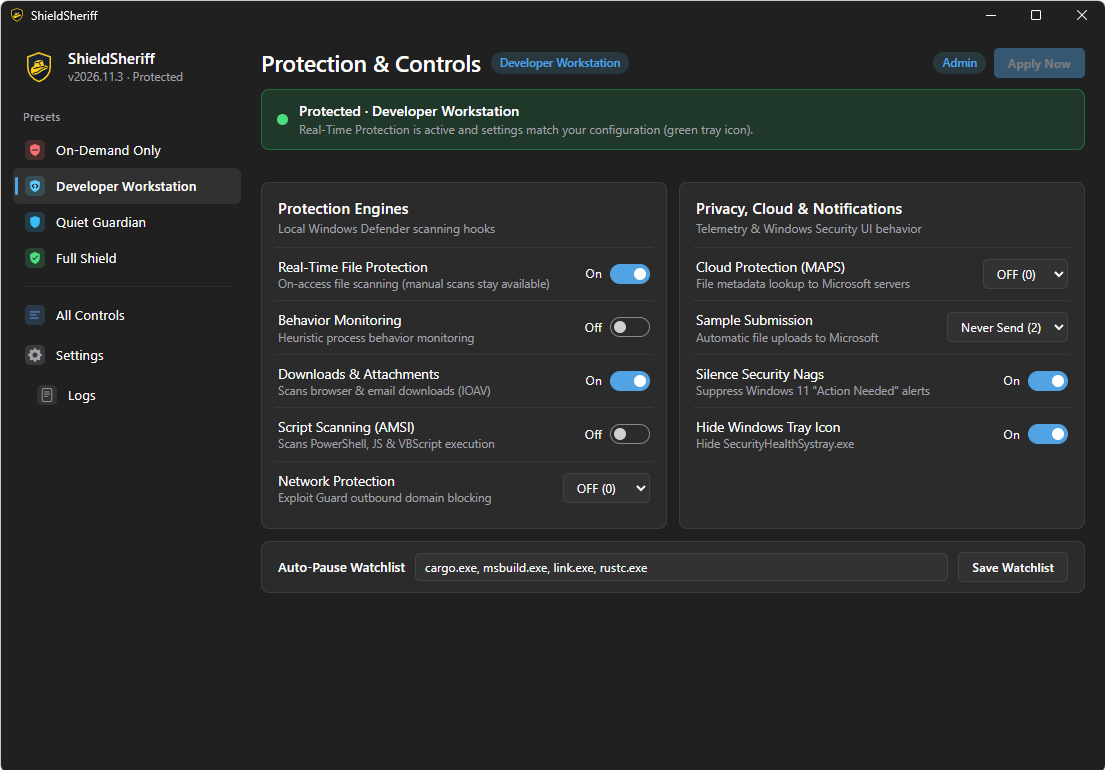
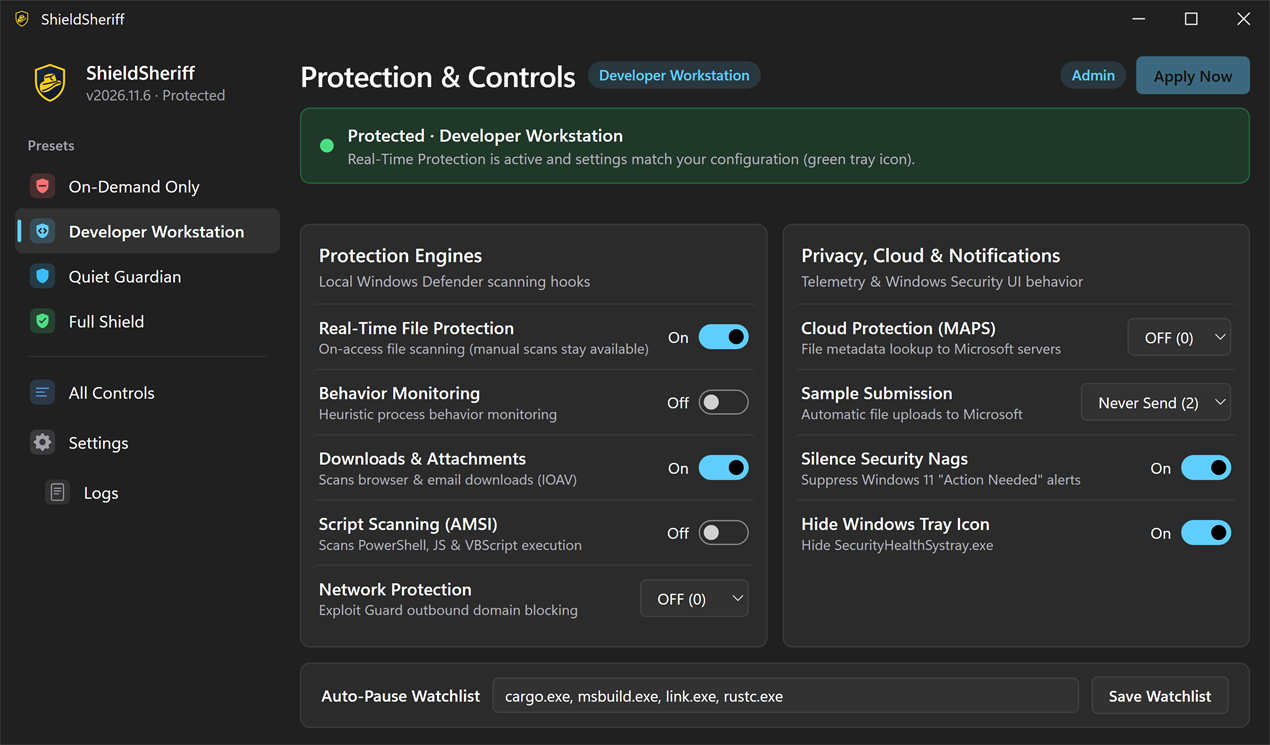
docs: focus README on end-users, add DEVELOPMENT.md, and refresh UI screenshot

diff --git a/site/index.html b/site/index.html
@@ -74,7 +74,7 @@
 
       <!-- Native App Screenshot -->
       <div class="hero-screenshot-wrap">
-        <img src="preview.png" width="1105" height="770" alt="ShieldSheriff Windows 11 UI showing Protection &amp; Controls" class="hero-screenshot">
+        <img src="preview.png" width="1016" height="596" alt="ShieldSheriff Windows 11 UI showing Protection &amp; Controls" class="hero-screenshot">
       </div>
     </div>
   </header>

diff --git a/site/styles.css b/site/styles.css
@@ -71,7 +71,7 @@ code, pre {
 }
 
 .hero-screenshot-wrap {
-  max-width: 960px;
+  max-width: 1016px;
   width: 100%;
   margin: 12px auto 0;
   border-radius: 10px;

diff --git a/README.md b/README.md
@@ -2,125 +2,143 @@
   <img src="site/logo.svg" alt="ShieldSheriff Logo" width="84" height="84" />
 </p>
 
-# ShieldSheriff
+<h1 align="center">ShieldSheriff</h1>
 
-**Granular, Nag-Free Control for Windows 11 Defender.**
+<p align="center">
+  <strong>Granular, Nag-Free Control for Windows 11 Defender.</strong><br />
+  <a href="https://kurtisnotcurtis.github.io/shieldsheriff/">Website &amp; Comparison</a> ·
+  <a href="https://github.com/kurtisnotcurtis/shieldsheriff/releases">Download Releases</a> ·
+  <a href="CHANGELOG.md">Changelog</a> ·
+  <a href="DEVELOPMENT.md">Developer Guide</a>
+</p>
 
-> **Platform & Privileges:** Windows 11 only. Running `shiesh.exe` without arguments inspects live Defender state in Read-Only mode and exits cleanly; pass `ui --elevate`, `tray --elevate`, or `elect --elevate` (or click **Admin** inside the Command Center UI) to prompt for Administrator (UAC) privileges to apply Defender policies. Ensure **Tamper Protection** is toggled `OFF` once in `windowsdefender://threatsettings` so Defender honors local policy locks.
-
-Windows 11's built-in Microsoft Defender (`MsMpEng.exe`) is a solid antivirus engine, but its notification layer (`SecurityHealthService.exe` / `SecurityHealthSystray.exe`) relentlessly nags when you intentionally turn off **Cloud-delivered protection**, **Automatic sample submission**, **Tamper protection**, or **Real-time protection**—and Windows Updates or Defender background tasks frequently flip your settings back on.
-
-Rather than registering as a fake third-party antivirus in Windows Security Center (which causes `MsMpEng.exe` to automatically disable its own real-time protection and requires an MVI ELAM kernel certificate), **ShieldSheriff** manages Defender directly using native Windows policies:
-- **Granular Protection Engines:** Keeps `WinDefend` alive while giving you direct control over `Real-Time Protection`, `Behavior Monitoring`, `Downloads & Attachments (IOAV)`, `Script Scanning (AMSI)`, `Network Protection`, `Cloud Protection (MAPS)`, and `Sample Submission`.
-- **Silence Security Nags:** Applies Windows Security Center notification & UX policies (`DisableNotifications`, `DisableEnhancedNotifications`, `Notification_Suppress`) and optionally hides the default `SecurityHealthSystray.exe` icon (with automatic registry backup & restore).
-- **Auto-Heal Settings Drift:** Periodically inspects live Registry & WMI (`MSFT_MpPreference`) state at your configured interval (default 15s) and restores your chosen settings if Defender or Windows Update resets them.
-- **Pause Protection & Auto-Pause Watchlist:** Temporarily pause Real-Time Protection for 15m / 30m / 1h / 4h, or automatically whenever specified build tools or games (`cargo.exe`, `msbuild.exe`, `link.exe`, `rustc.exe`, etc.) are running.
-
----
-
-## Project Structure
-
-```
-shieldsheriff/
-├── cmd/shieldsheriff/
-│   ├── main.go                     # CLI, System Tray, Command Center UI & Windows Service entry point
-│   └── instance.go                 # Single-instance named mutex & Command Center focus handoff
-├── internal/
-│   ├── defender/
-│   │   ├── state.go                # StandingOrders, DeputyStatus, StandDownState, and Presets
-│   │   ├── inspect.go              # Native Win32 Registry & filesystem inspector (works unprivileged & elevated)
-│   │   ├── enforce.go              # Policy locks + live Engine keys + DCOM WMI (MSFT_MpPreference) sync
-│   │   └── elevation.go            # Token elevation check + UAC self-elevation ("runas")
-│   ├── sheriff/
-│   │   ├── config.go               # Persistent config.json storage (%ProgramData%\ShieldSheriff)
-│   │   ├── governor.go             # Drift auto-healer, Pause timer & Win32 Toolhelp32 process watcher
-│   │   ├── startup.go              # Elevated logon Task Scheduler registration (`ShieldSheriff Tray`)
-│   │   ├── update.go               # GitHub Releases update checker
-│   │   └── service.go              # Native Windows Service (SCM) dispatcher & installer
-│   ├── tray/
-│   │   ├── icon.go                 # Procedural 32-bit ARGB preset, pause, passive & brand HICON renderer
-│   │   └── systray.go              # Native Win32 Shell_NotifyIconW System Tray & popup menu
-│   ├── ui/
-│   │   ├── server.go               # Localhost (127.0.0.1) UI server & WebView2 native window host
-│   │   ├── theme.go                # Windows 11 Dark/Light mode, DWM accent & system UI font reader
-│   │   ├── window.go               # Windows 11 Mica/caption chrome, icon & HWND deduplication
-│   │   └── dashboard.html          # Windows 11 Settings-style dual-pane UI with staged Apply Now
-│   └── version/
-│       └── version.go              # CalVer (YYYY.0M.MICRO) release & Defender platform compatibility metadata
-├── build.ps1                       # Reproducible local release build script (`.\build.ps1 -Test`)
-├── site/                           # Static marketing & comparison website (index.html, styles.css, app.js)
-├── CHANGELOG.md                    # CalVer release history & Windows Defender evolution log
-├── VERSION.json                    # Machine-readable CalVer metadata & tested Defender platform matrix
-├── go.mod
-└── LICENSE
-```
+<p align="center">
+  <img src="site/preview.png" alt="ShieldSheriff Command Center UI on Windows 11" />
+</p>
 
 ---
 
-## Quick Start
+## Why ShieldSheriff?
 
-### 1. Build
+Windows 11's built-in Microsoft Defender (`MsMpEng.exe`) is a capable local antivirus engine, but its notification layer (`SecurityHealthService.exe` / `SecurityHealthSystray.exe`) relentlessly nags whenever you intentionally turn off **Cloud-delivered protection**, **Automatic sample submission**, **Tamper protection**, or **Real-time protection**—and Windows Updates regularly flip your settings back on.
+
+**ShieldSheriff** is a lightweight (~5 MB), single-binary Windows 11 Defender governor that keeps Defender under your rules using native Windows policies rather than service-killing hacks or fake third-party antivirus registration:
+
+- **Granular Engine Control:** Keep `WinDefend` alive while independently controlling **Real-Time Protection**, **Behavior Monitoring**, **Downloads & Attachments (IOAV)**, **Script Scanning (AMSI)**, **Network Protection**, **Cloud Protection (MAPS)**, and **Sample Submission**.
+- **Silence Security Center Nags:** Suppresses Windows Security toast notifications and optionally hides the Windows Security system tray icon (with automatic registry backup and restore).
+- **Auto-Heal Update Resets:** Periodically checks your live Defender state (default every 15s, configurable) and restores your chosen settings if a Windows Update or background task resets them.
+- **Timed Pause & Auto-Pause on Builds:** Temporarily pause Real-Time Protection for `15m`, `30m`, `1h`, or `4h`, or pause automatically whenever specified compilers, linkers, or games (`cargo.exe`, `msbuild.exe`, `link.exe`, `rustc.exe`, etc.) are running.
+
+---
+
+## Built-In Presets
+
+Choose a one-click preset from the **Command Center UI**, **System Tray menu**, or **CLI** (`shiesh elect --preset <id> --elevate`), or customize every toggle individually:
+
+| Preset | ID | What It Does |
+| :--- | :--- | :--- |
+| **Quiet Guardian** *(Default)* | `quiet-guardian` | **Local Real-Time ON**, Cloud Protection **OFF**, Sample Submission **OFF**, all Windows Security nags **Silenced**. |
+| **Developer Workstation** | `dev-workstation` | Keeps core Real-Time scanning ON, turns heavy **Behavior Monitoring** & **Script Scanning** hooks **OFF**, and auto-pauses scanning while `cargo.exe`, `rustc.exe`, `msbuild.exe`, or `link.exe` run. |
+| **On-Demand Only** | `on-demand-only` | Turns **Real-Time Protection OFF permanently** (no 24-hour reset) while keeping manual **Quick Scans** and **Signature Updates** working. |
+| **Full Shield (No Nags)** | `full-shield-no-nag` | Keeps **Local + Cloud Protection ON**, turns automatic file **Sample Uploads OFF**, and silences all Security Center nags. |
+
+---
+
+## Installation
+
+> **Requirements:** Windows 11 (`x64` or `arm64`). Administrator privileges (UAC) are required to apply Defender policies, run the persistent System Tray, or install the background service.
+
+### Option 1: Install via WinGet
 ```powershell
-.\build.ps1 -Test
-# (or: go build -trimpath -ldflags="-s -w" -o bin\shiesh.exe ./cmd/shieldsheriff)
+winget install kurtisnotcurtis.ShieldSheriff
 ```
+WinGet installs `shiesh.exe` and adds the `shiesh` command alias to your `PATH`.
+
+### Option 2: Portable `.zip` Archive
+1. Download `shieldsheriff-<version>-windows-amd64.zip` (or `arm64.zip`) from [GitHub Releases](https://github.com/kurtisnotcurtis/shieldsheriff/releases).
+2. Extract `shiesh.exe` into a permanent folder (for example, `C:\Tools\ShieldSheriff\`).
+   > **Note for Portable Users:** If you enable **Start in System Tray at Windows Logon** or install the **Background Service**, Windows registers the current path of `shiesh.exe`. Place `shiesh.exe` in its permanent folder before enabling startup/service options.
+
+### One-Time Prerequisite: Turn Off Tamper Protection
+Windows Defender's **Tamper Protection** blocks local apps and Group Policy keys from changing Defender settings. Before applying policies for the first time:
+1. Open **Windows Security → Virus & threat protection → Manage settings** (or run `start windowsdefender://threatsettings`).
+2. Toggle **Tamper Protection** to **Off** once.
+3. ShieldSheriff will silence the resulting Tamper Protection warning notification automatically once your Standing Orders are applied.
+
+---
+
+## Getting Started
+
+*(If you extracted the portable `.zip` without adding it to your `PATH`, replace `shiesh` below with `.\shiesh.exe`.)*
+
+### 1. Launch the Command Center UI & System Tray
+```powershell
+# Launch full Command Center UI + persistent System Tray (prompts for Administrator UAC):
+shiesh ui --elevate
+
+# Or open the Command Center UI in Read-Only mode first (no tray; click "Admin" inside the app to elevate):
+shiesh ui
+
+# Launch minimized directly to the persistent System Tray:
+shiesh tray --elevate
+```
+- **Safe First Run:** On first launch, ShieldSheriff opens in **Passive / Read-Only** state and reflects your PC's current Defender configuration without changing anything until you click **Apply Now**.
+- **Windows 11 Native Look:** Uses WebView2 with Windows 11 Mica backdrop and automatically follows your system Dark/Light theme and accent color.
+- **Three-State System Tray Icon:**
+  - **Preset Mode:** Displays the active preset shield (**Quiet Guardian** blue shield, **Developer Workstation** sky-blue `<>`, **On-Demand Only** red `-`, **Full Shield** green checkmark, or **Custom**).
+  - **Pause Mode:** Amber shield with `||` pause bars while Real-Time Protection is paused by timer or a watched process.
+  - **Passive Mode:** Hollow slate shield outline when ShieldSheriff is not actively enforcing policies.
 
 ### 2. Inspect Live Defender Status (Read-Only Default)
+Running `shiesh` with no arguments (or `shiesh status`) inspects live Defender engines, Tamper Protection, and policy drift without modifying your system or prompting for UAC:
 ```powershell
-.\bin\shiesh.exe
-# (or: .\bin\shiesh.exe status [--json])
+shiesh
+# Machine-readable JSON output:
+shiesh status --json
 ```
 
-### 3. Launch ShieldSheriff (UI & System Tray)
+### 3. Control Defender from the CLI
 ```powershell
-# Launch Command Center UI in Read-Only mode (no persistent tray; exits when closed, or click "Admin" to elevate):
-.\bin\shiesh.exe ui
+# Apply the default "Quiet Guardian" preset (prompts for Admin UAC with --elevate):
+shiesh elect --elevate
 
-# Or prompt for Administrator (UAC) immediately for full UI + persistent System Tray:
-.\bin\shiesh.exe ui --elevate
+# Apply a specific preset (quiet-guardian, dev-workstation, on-demand-only, full-shield-no-nag):
+shiesh elect --preset dev-workstation --elevate
 
-# Launch minimized in the persistent System Tray only (requires elevation):
-.\bin\shiesh.exe tray --elevate
-```
-- **Windows 11 Settings-Style UI (WebView2 + Mica):** Adapts automatically to your Windows 11 Dark/Light mode, accent color, and system font. On first run (no `config.json`), ShieldSheriff shows your current PC settings without modifying anything until you stage changes and click **Apply Now** (with one-time consent for logon startup, configurable Auto-Heal interval, and startup update checks).
-- **Three-State System Tray:**
-  - **Preset Mode:** Displays the active preset's shield icon (**On-Demand Only** red `-`, **Developer Workstation** sky-blue `<>`, **Quiet Guardian** blue shield, **Full Shield** green checkmark, or **Custom**).
-  - **Pause Mode:** Amber shield with `||` pause bars when temporarily paused by timer or watched build process.
-  - **Passive Mode:** Hollow slate shield outline when not enforcing (first run or after reverting ShieldSheriff policies).
-- **Single-Instance Locking:** Relaunching `ui` or `tray` focuses the existing window instead of opening duplicates.
+# Customize individual engine & notification settings (run from an elevated terminal):
+shiesh order realtime=on behavior=off script=off cloud=off samples=never nags=off
 
-### 4. Apply a Preset or Granular Settings (CLI)
-```powershell
-# Apply the default "Quiet Guardian" preset (Real-Time ON, Cloud OFF, Sample Submission OFF, Nags Silenced):
-.\bin\shiesh.exe elect --elevate
+# Auto-pause Real-Time Protection whenever specified processes are running:
+shiesh order watch=cargo.exe,msbuild.exe,link.exe,rustc.exe
 
-# Keep Real-Time ON, turn Behavior/Script scanning OFF, Cloud & Sample uploads OFF, and silence all nags:
-.\bin\shiesh.exe order realtime=on behavior=off script=off cloud=off samples=never nags=off
+# Temporarily pause Real-Time Protection for 30 minutes, or resume immediately:
+shiesh pause 30
+shiesh resume
 
-# Automatically pause Real-Time Protection whenever cargo.exe or msbuild.exe is running:
-.\bin\shiesh.exe order watch=cargo.exe,msbuild.exe
+# Run an on-demand Defender Quick Scan or signature update (works even in On-Demand Only mode):
+shiesh scan
+shiesh update
 
-# Manually pause Real-Time Protection for 30 minutes, then auto-resume:
-.\bin\shiesh.exe pause 30
-
-# Install as a 24/7 background SYSTEM Windows Service across reboots:
-.\bin\shiesh.exe service install
-
-# Inspect CalVer release & tested Windows Defender platform compatibility:
-.\bin\shiesh.exe version
+# Install or remove the 24/7 background Windows Service (runs as SYSTEM across reboots):
+shiesh service install
+shiesh service uninstall
 ```
 
 ---
 
-## Versioning (`CalVer`) & Changelog
+## Reverting to Windows Defaults & Uninstalling
 
-ShieldSheriff uses **Calendar Versioning (`YYYY.0M.MICRO`)** because Windows Defender (`MsMpEng.exe` / `WdFilter.sys`) and Windows Security Center (`SecurityHealthService.exe`) evolve on Microsoft's monthly Patch Tuesday and Windows 11 cumulative update schedule rather than static library SemVer contracts.
-
-- See [`CHANGELOG.md`](CHANGELOG.md) for the full release history and Windows Defender platform changes.
-- See [`VERSION.json`](VERSION.json) for machine-readable release and compatibility metadata.
+1. **Revert Defender Policies:** Open the Command Center UI (`shiesh ui --elevate`) or right-click the System Tray icon and select **Passive Mode (Stop Enforcing)** to remove ShieldSheriff's policy locks and restore standard Windows Security notifications.
+2. **Remove Background Service / Startup (if enabled):**
+   - Turn off **Start in Tray at Logon** and **Windows Service** in the **Settings** tab of the UI (or run `shiesh service uninstall` as Administrator).
+3. **Uninstall the Binary:**
+   - **WinGet:** `winget uninstall kurtisnotcurtis.ShieldSheriff`
+   - **Portable `.zip`:** Delete `shiesh.exe` and optional config folder `C:\ProgramData\ShieldSheriff`.
 
 ---
 
-## License
+## Versioning, Development & License
 
-Released under the [MIT License](LICENSE).
+- **Calendar Versioning (`CalVer`):** ShieldSheriff uses `YYYY.0M.MICRO` versioning to track Windows 11 cumulative updates and monthly Microsoft Defender platform releases. See [CHANGELOG.md](CHANGELOG.md) and [VERSION.json](VERSION.json).
+- **Building from Source & Repo Structure:** See [DEVELOPMENT.md](DEVELOPMENT.md) for the repository layout, architecture internals, and `.\build.ps1` build/test instructions.
+- **License:** Released under the [MIT License](LICENSE).

diff --git a/DEVELOPMENT.md b/DEVELOPMENT.md
@@ -1,0 +1,120 @@
+# ShieldSheriff Development & Architecture Guide
+
+This document covers the repository layout, internal Windows 11 / Defender architecture, local build and test workflows, and release packaging for **ShieldSheriff**.
+
+For end-user installation and usage instructions, see [README.md](README.md).
+
+---
+
+## Project Structure
+
+```text
+shieldsheriff/
+├── cmd/shieldsheriff/
+│   ├── main.go                     # CLI, System Tray, Command Center UI & Windows Service entry point
+│   ├── main_test.go                # CLI argument & interactive mode flag tests
+│   ├── instance.go                 # Single-instance named mutex & Command Center focus handoff
+│   ├── console_windows.go          # Console window suppression for GUI/Tray launches
+│   └── winres/                     # Windows application manifest & icon resource definitions
+├── internal/
+│   ├── defender/
+│   │   ├── state.go                # StandingOrders, DeputyStatus, StandDownState, and Presets
+│   │   ├── inspect.go              # Native Win32 Registry & filesystem inspector (works unprivileged & elevated)
+│   │   ├── enforce.go              # Policy locks + live Engine keys + DCOM WMI (MSFT_MpPreference) sync
+│   │   └── elevation.go            # Token elevation check + UAC self-elevation ("runas")
+│   ├── sheriff/
+│   │   ├── config.go               # Persistent config.json storage (%ProgramData%\ShieldSheriff)
+│   │   ├── governor.go             # Drift auto-healer, Pause timer & Win32 Toolhelp32 process watcher
+│   │   ├── startup.go              # Elevated logon Task Scheduler registration (`ShieldSheriff Tray`)
+│   │   ├── update.go               # GitHub Releases update checker
+│   │   └── service.go              # Native Windows Service (SCM) dispatcher & installer
+│   ├── tray/
+│   │   ├── icon.go                 # Procedural 32-bit ARGB preset, pause, passive & brand HICON renderer
+│   │   └── systray.go              # Native Win32 Shell_NotifyIconW System Tray & popup menu
+│   ├── ui/
+│   │   ├── server.go               # Localhost (127.0.0.1) UI server & WebView2 native window host
+│   │   ├── theme.go                # Windows 11 Dark/Light mode, DWM accent & system UI font reader
+│   │   ├── window.go               # Windows 11 Mica/caption chrome, icon & HWND deduplication
+│   │   ├── dashboard.html          # Windows 11 Settings-style dual-pane UI with staged Apply Now
+│   │   └── assets.go               # Embedded UI assets
+│   └── version/
+│       ├── version.go              # CalVer (YYYY.0M.MICRO) release & Defender platform compatibility metadata
+│       └── version_test.go         # Enforces version sync across VERSION.json, version.go, and CHANGELOG.md
+├── packaging/winget/               # WinGet manifest templates rendered during GitHub Releases
+├── site/                           # Static website & feature comparison (index.html, styles.css, app.js)
+├── build.ps1                       # Reproducible local release build script (`.\build.ps1 -Test`)
+├── CHANGELOG.md                    # CalVer release history & Windows Defender evolution log
+├── VERSION.json                    # Machine-readable CalVer metadata & tested Defender platform matrix
+├── go.mod
+└── LICENSE
+```
+
+---
+
+## Architecture Overview
+
+1. **Direct Policy + DCOM WMI Governance (Zero Fake-AV or Service-Killer Hacks):**
+   - Rather than registering a dummy third-party antivirus in Windows Security Center (which forces `MsMpEng.exe` into passive mode and requires an MVI ELAM kernel certificate) or gutting the `WinDefend` service via `TrustedInstaller` tricks, ShieldSheriff writes native Group Policy keys under `HKLM\SOFTWARE\Policies\Microsoft\Windows Defender` and `HKLM\SOFTWARE\Policies\Microsoft\Windows Defender Security Center` while synchronizing live preferences into `MsMpEng.exe` via DCOM WMI (`ROOT\Microsoft\Windows\Defender:MSFT_MpPreference`).
+   - Because it uses DCOM directly rather than PowerShell's `Set-MpPreference` CIM cmdlets, ShieldSheriff works even when the `WinRM` / `WSMan` service is disabled.
+
+2. **Execution Modes & Privilege Boundaries:**
+   - **No-Arg Default (`shiesh.exe`):** Runs a read-only live status inspection and exits `0` immediately. This prevents unexpected UAC prompts from terminal invocations and satisfies automated package validation (such as WinGet's headless post-install check).
+   - **Read-Only UI (`shiesh.exe ui`):** Starts a window-bound localhost server (`127.0.0.1:38419`) and native WebView2 window without creating a system tray icon or starting the background enforcement loop, exiting cleanly when the window closes. Clicking **Admin** inside the UI relaunches with `ui --replace --elevate`.
+   - **Elevated UI / System Tray (`shiesh.exe ui --elevate` / `tray --elevate`):** Acquires the single-instance mutex (`Local\ShieldSheriffCommandCenterInstance`), starts the persistent Win32 `Shell_NotifyIconW` system tray icon, and runs the drift/process-watch governor loop.
+   - **Windows Service (`shiesh.exe service install` / `service run`):** Registers and runs under the Windows Service Control Manager (SCM) as `LocalSystem` (`SYSTEM`) for headless 24/7 enforcement across reboots.
+
+3. **Host State & Persistence Locations:**
+   - **Configuration:** `%ProgramData%\ShieldSheriff\config.json` (when elevated) or `%LOCALAPPDATA%\ShieldSheriff\config.json` (unprivileged fallback).
+   - **Logon Startup:** Scheduled Task named `ShieldSheriff Tray` (`HighestAvailable` run level, executing `"<exePath>" tray --no-elevate`).
+   - **Windows Service:** SCM service named `ShieldSheriff` (executing `"<exePath>" service run`).
+
+---
+
+## Building & Testing Locally
+
+### Prerequisites
+- **OS:** Windows 11 (24H2 / 25H2 baseline)
+- **Go:** Go `1.25+` (pinned in `go.mod`, compiled with `CGO_ENABLED=0`)
+- **PowerShell:** PowerShell 7 (`pwsh`) or Windows PowerShell
+
+### Build Script (`build.ps1`)
+Use `build.ps1` to run static analysis, execute all unit tests, compile `bin\shiesh.exe` with version metadata injected from `VERSION.json`, and generate `bin\ShieldSheriff.lnk` (a convenience shortcut configured to launch `shiesh.exe ui --elevate`):
+
+```powershell
+# Build and run go vet + unit tests:
+.\build.ps1 -Test
+
+# Stop any running shiesh.exe instance before building:
+.\build.ps1 -Test -StopRunning
+```
+
+### Manual Go Commands
+```powershell
+# Static analysis and full test suite:
+go vet -mod=readonly ./...
+go test -mod=readonly -count=1 -v ./...
+
+# Direct binary build:
+$env:CGO_ENABLED = "0"
+go build -mod=readonly -trimpath -ldflags="-s -w" -o bin\shiesh.exe ./cmd/shieldsheriff
+```
+
+### Windows Resource Generation (`.syso`)
+If you modify `cmd/shieldsheriff/winres/winres.json` or application icons, regenerate the embedded `.syso` resource files with:
+
+```powershell
+go generate ./cmd/shieldsheriff
+```
+
+---
+
+## Versioning (`CalVer`) & Releases
+
+ShieldSheriff uses **Calendar Versioning (`YYYY.0M.MICRO`)** because Microsoft Defender (`MsMpEng.exe` / `WdFilter.sys`) and Windows Security Center (`SecurityHealthService.exe`) evolve on Microsoft's monthly Patch Tuesday and Windows 11 cumulative update schedule.
+
+`TestVersionSync` in [`internal/version/version_test.go`](internal/version/version_test.go) enforces that the release version and date stay synchronized across:
+1. [`VERSION.json`](VERSION.json)
+2. [`internal/version/version.go`](internal/version/version.go)
+3. [`CHANGELOG.md`](CHANGELOG.md)
+
+Pushing a version tag (`vYYYY.0M.MICRO`) triggers [`.github/workflows/release.yml`](.github/workflows/release.yml), which runs the test suite, builds portable `amd64` and `arm64` `.zip` archives, computes `SHA256SUMS.txt`, renders the WinGet manifests from [`packaging/winget/`](packaging/winget/README.md), and publishes the GitHub Release.
